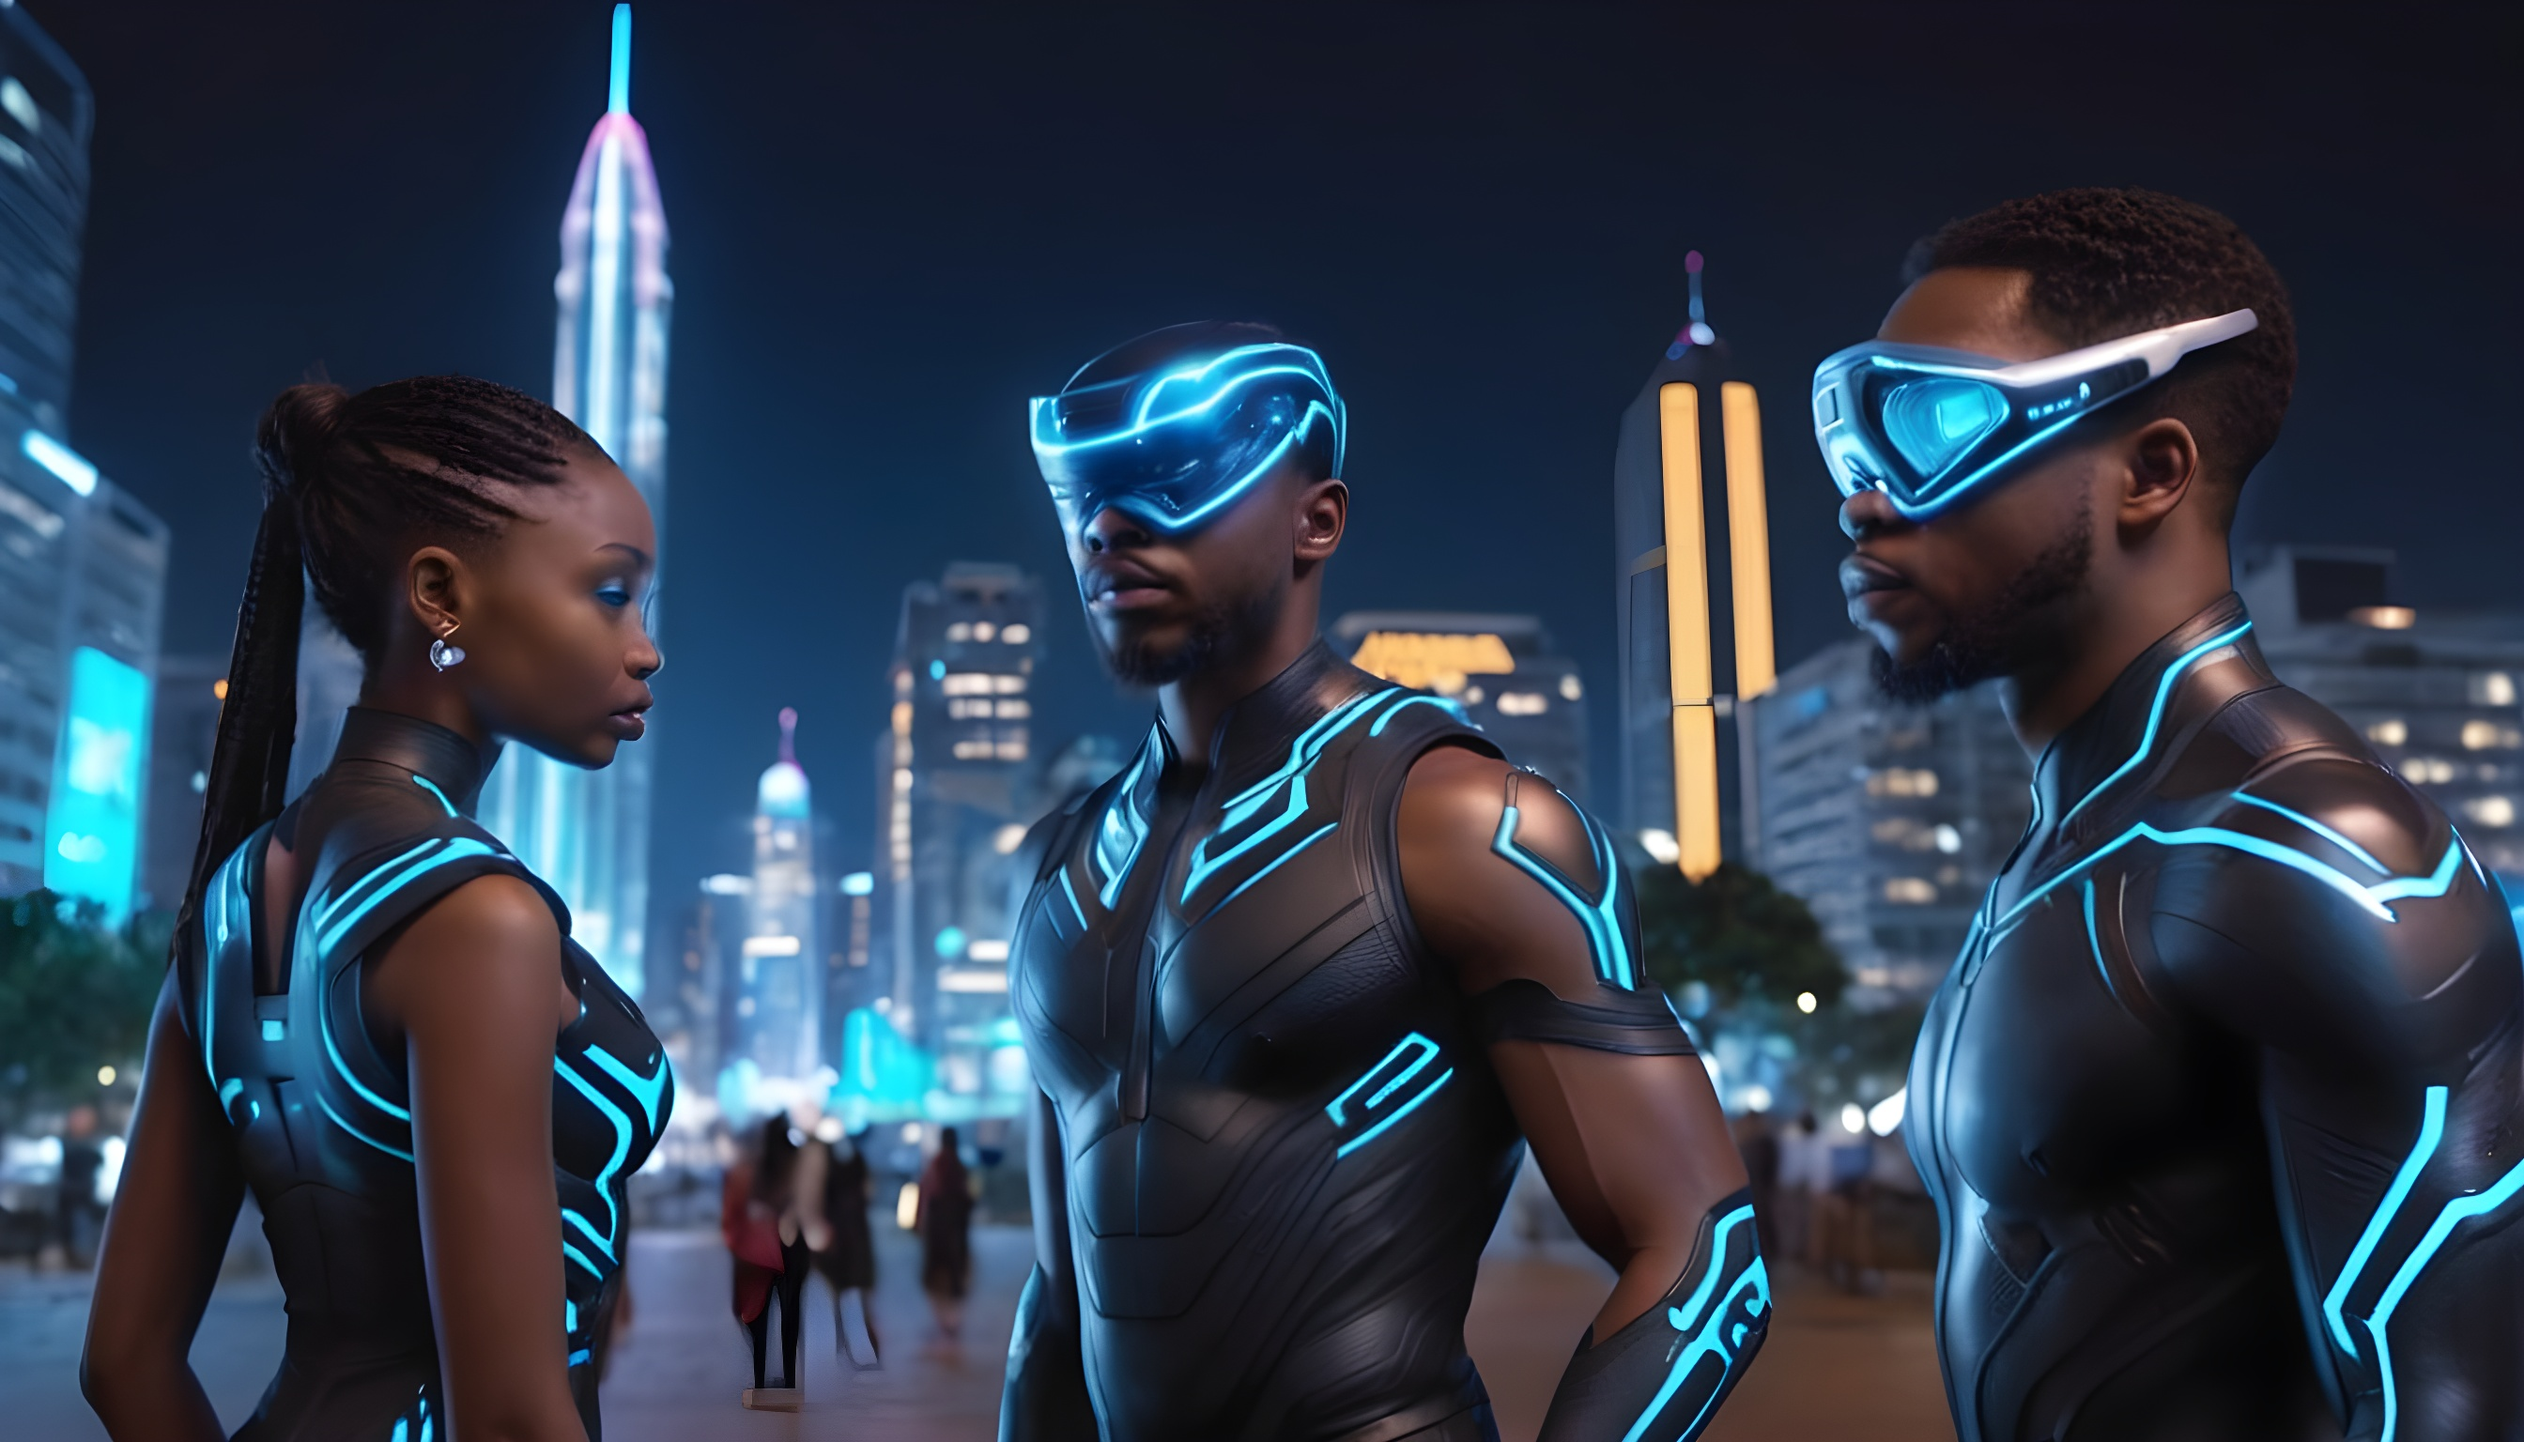
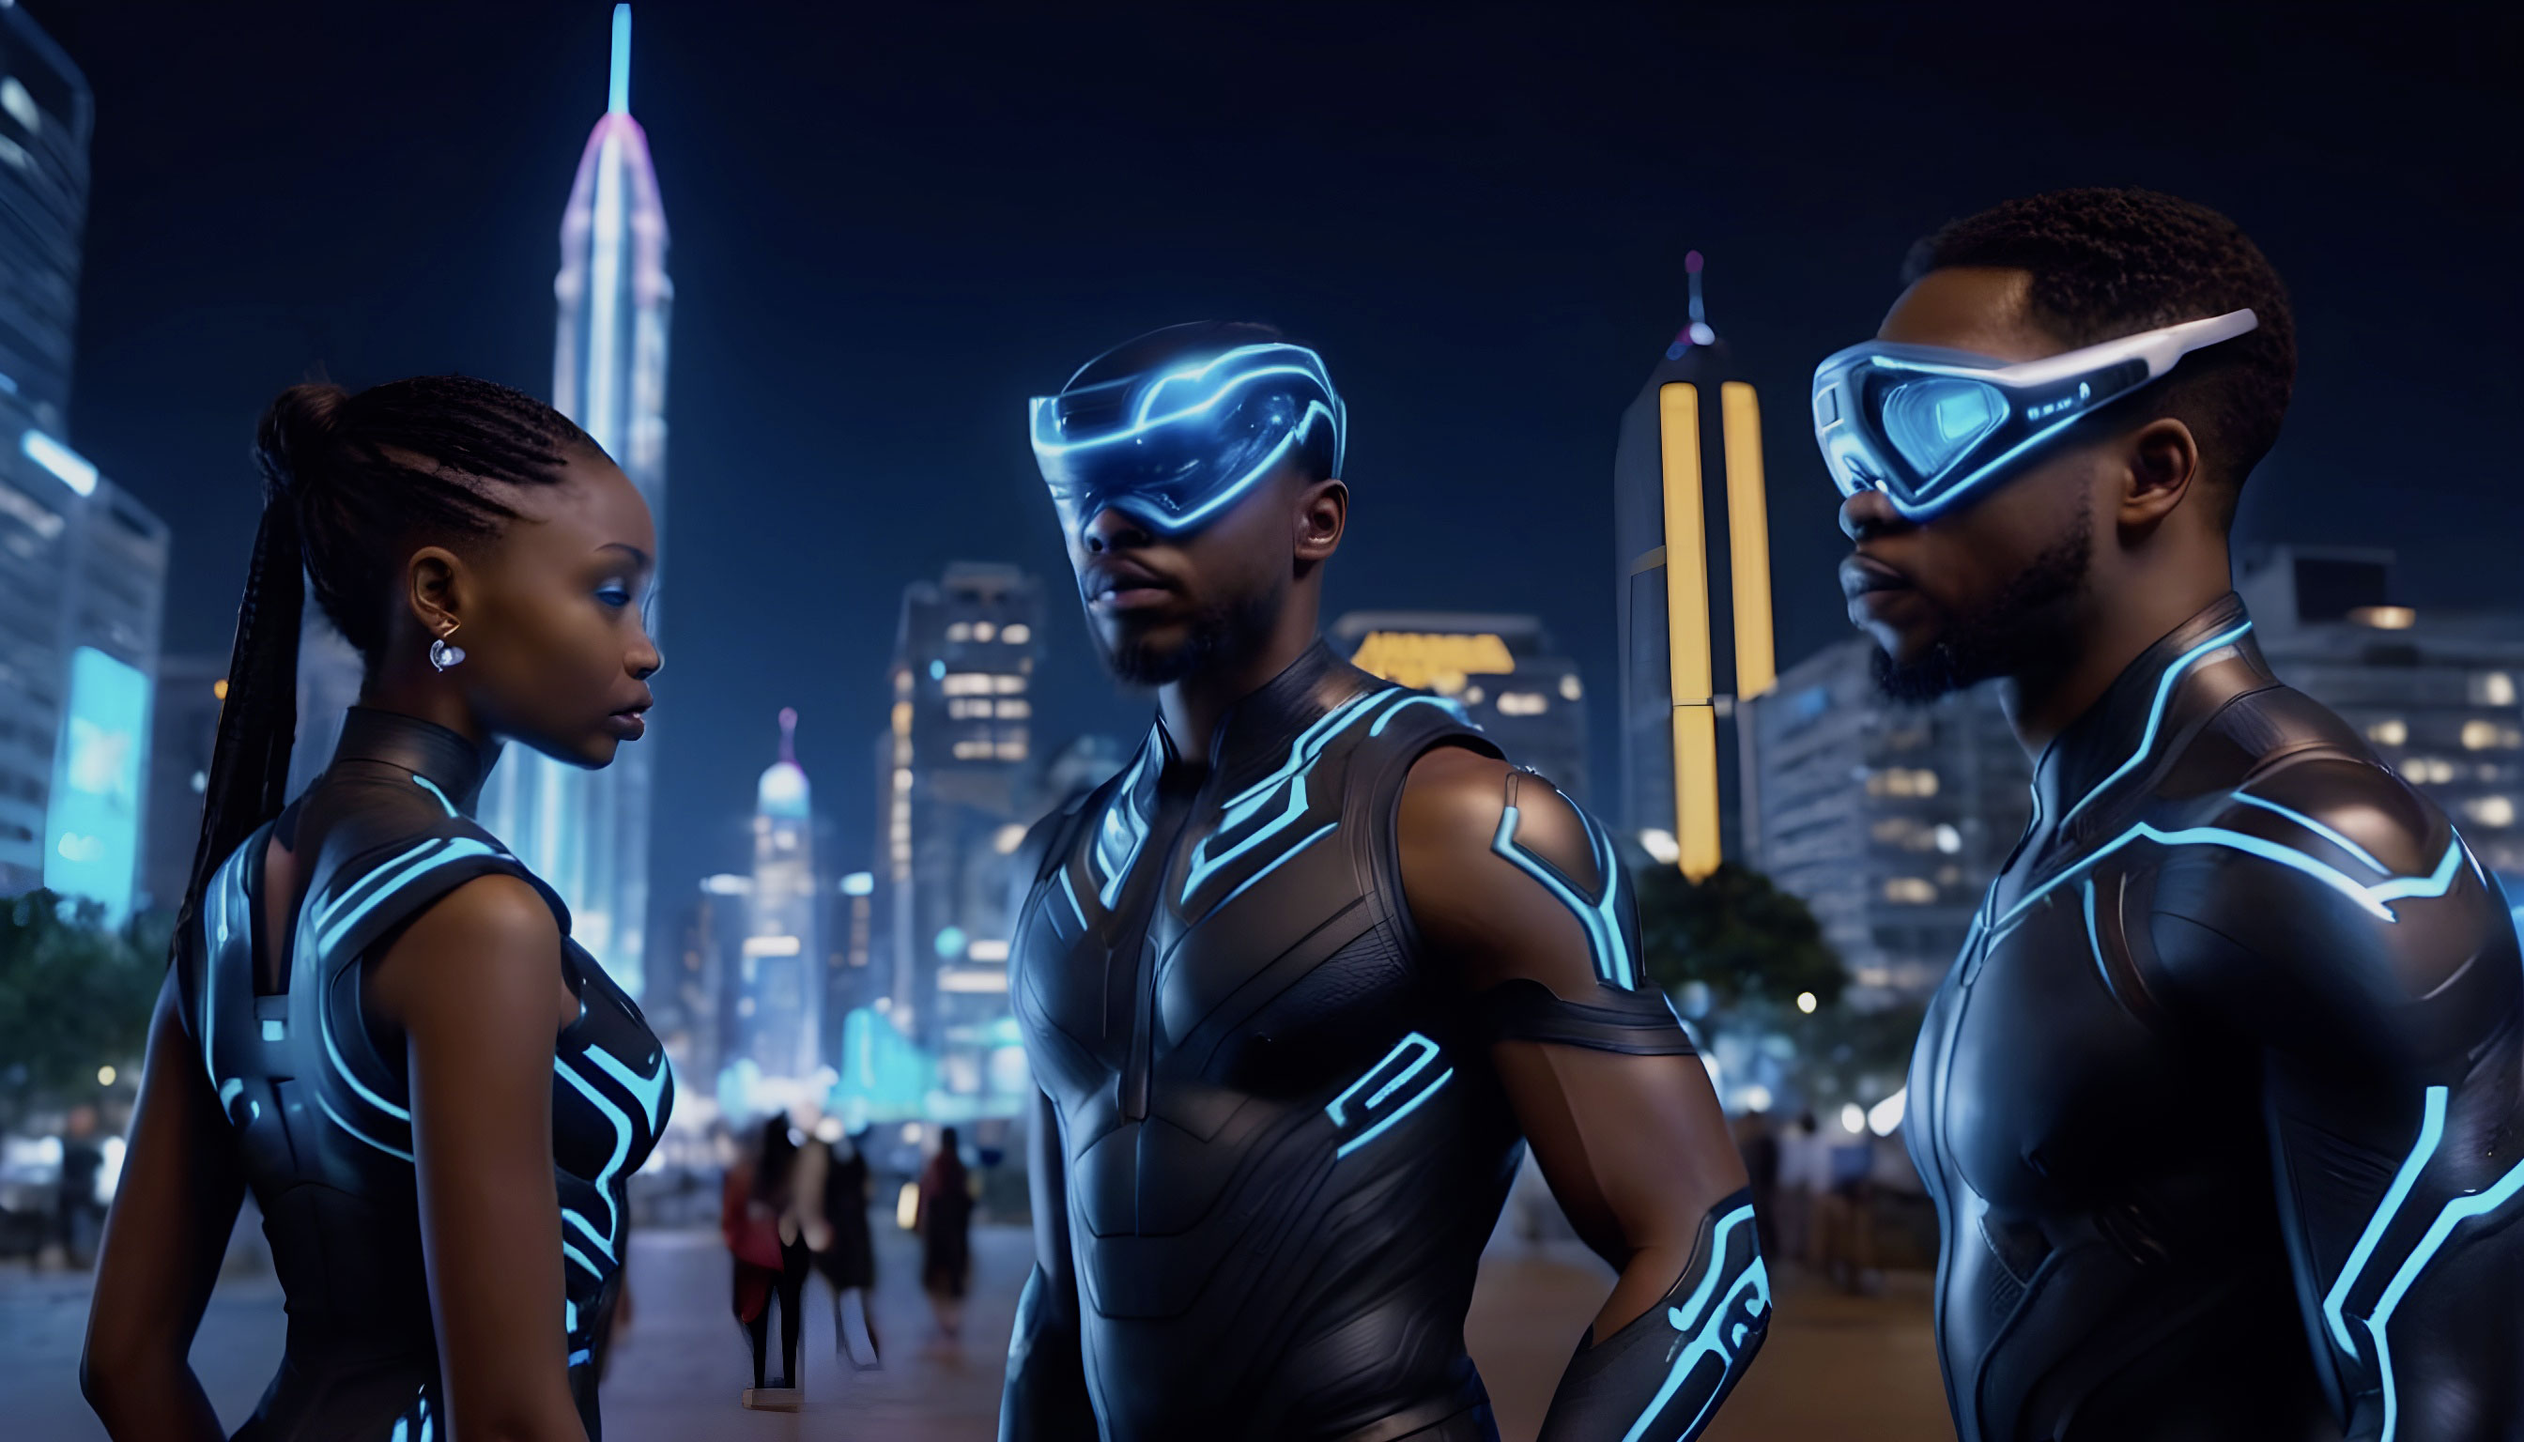
Update

diff --git a/styles/styles.css b/styles/styles.css
@@ -190,7 +190,7 @@ main .section {
 }
 
 .section:nth-of-type(5) {
-  background-image: url('../img/black-people-using-futuristic-augmented-reality-de-upscaled.jpg');
+  background-image: url('../img/futuristic-blk-people.jpg');
   height: 42rem;
   background-size: cover;
   background-repeat: no-repeat;

diff --git a/blocks/fragment/fragment.css b/blocks/fragment/fragment.css
@@ -4,7 +4,6 @@
   padding-right: 0;
 }
 
-
 .fragment-wrapper > .section:first-of-type {
   padding-top: 0;
 }
